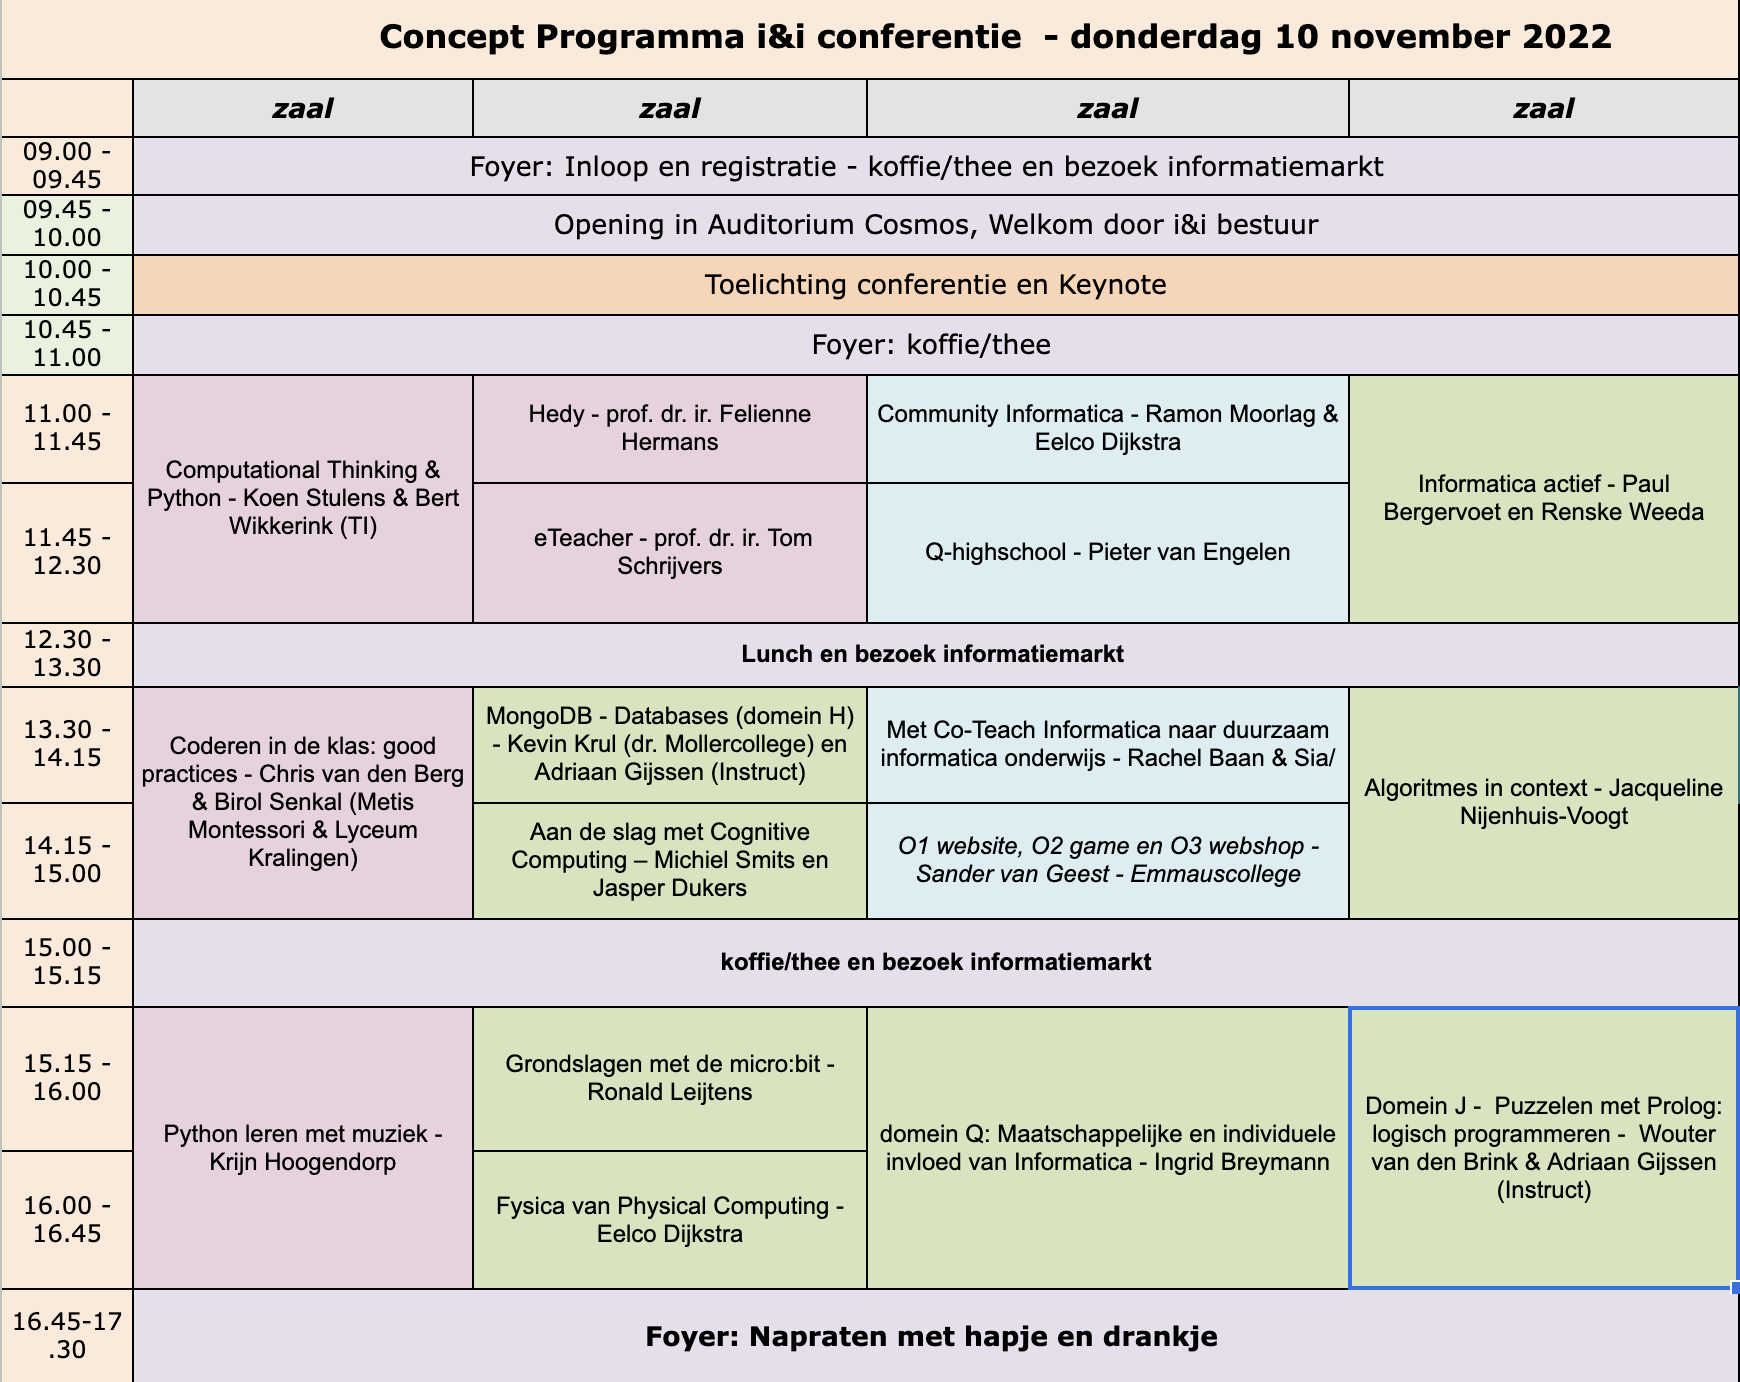
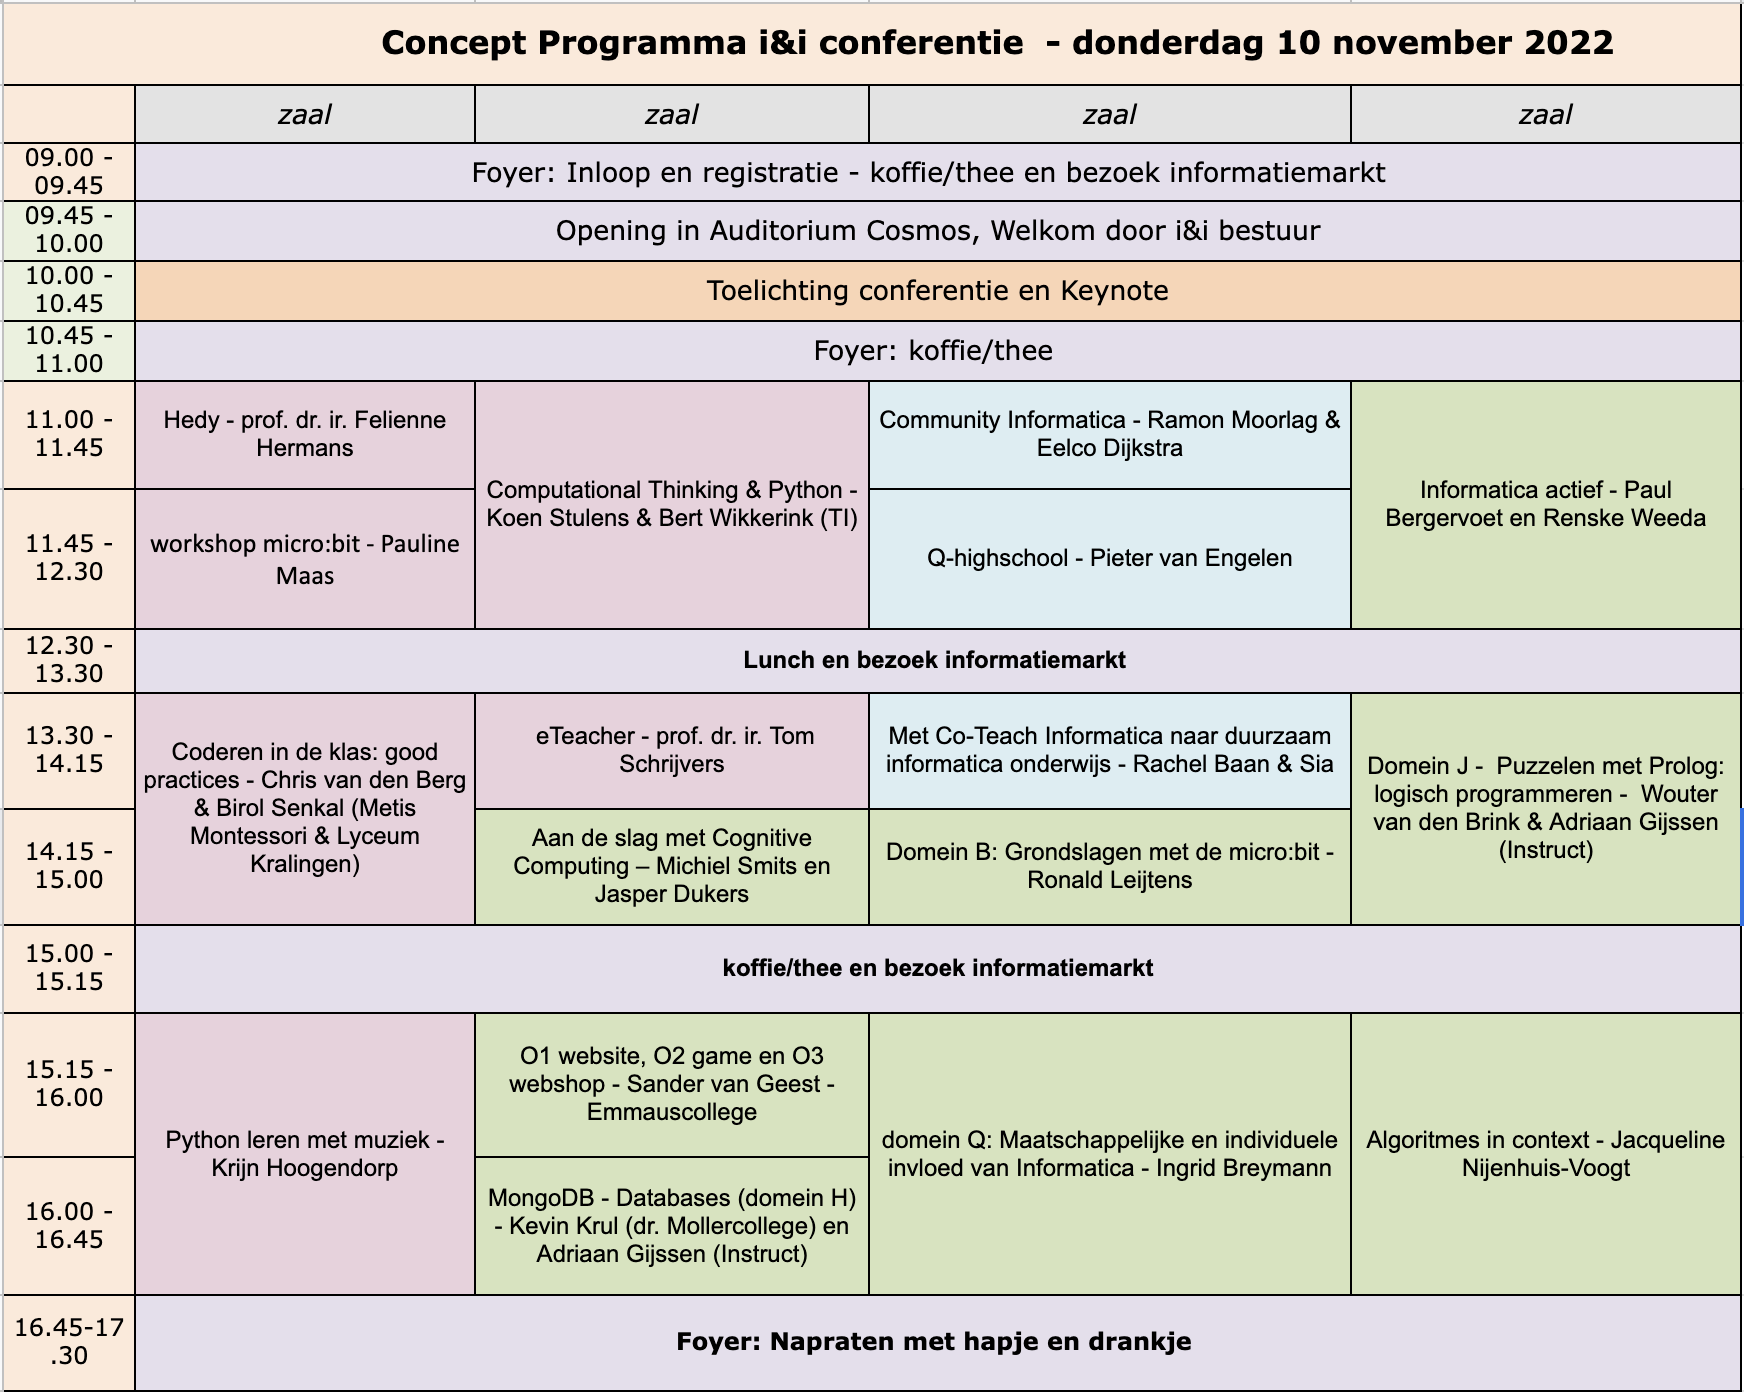
programma aangepast (Pauline)

diff --git a/_informatica/co-teach.md b/_informatica/co-teach.md
@@ -1,0 +1,34 @@
+---
+layout: informatica
+title: Co-Teach Informatica
+---
+ 
+*Informatica op school - ook als er (tijdelijk) geen informatica docent is*
+
+**Rachel Baan, Sia van Kesteren**
+
+Co-Teach Informatica is een programma waarmee VO-scholen het vak informatica kunnen 
+aanbieden door een combinatie van projectonderwijs door IT-professionals en een
+online leerlijn. Een oplossing voor scholen waar (tijdelijk) geen bevoegde informatica
+docent beschikbaar is. Terwijl er in het land wordt doorgewerkt aan meer bevoegde 
+leraren – kunnen we met Co-Teach informatica toch aan bovenbouw leerlingen het vak 
+informatica aanbieden.
+
+Wil je het vak informatica (her)introduceren op je school, dan biedt Co-Teach 
+Informatica de middelen en ondersteuning om dit mogelijk te maken.
+
+In deze workshop sessie
+
+* Krijg je inzicht in het Co-Teach Informatica programma.
+* Bespreken we het Co-Teach curriculum.
+* Ga je aan de slag op het online Leerplatform en krijg je een indruk hoe leerlingen de
+kerndomeinen leren tijdens de informatica les.
+* Laten we zien hoe onze gastdocenten het klaslokaal en de werkvloer verbinden. 
+Hoe de IT-professionals de Co-Teach Informatica leerlingen in aanraking te brengen met
+praktijkvoorbeelden uit de ‘echte wereld’.
+* Bespreken we kansen voor de continuïteit en verduurzaming van het informatica onderwijs
+m.b.v. het Co-Teach Informatica project.
+
+Sprekers:
+
+<img src="{{'/public/images/co-teach-rachel-sia.png' | relative_url}}" width="300">

diff --git a/index.md b/index.md
@@ -26,7 +26,9 @@ Alvast wat praktische gegevens:
     * Universiteit Utrecht
 * aanmelden via: [aanmeldformulier](https://www.smink-registratie.nl/ieni/){:target="_blank"}
 
-## Programma
+## Programma (concept)
+
+*wijzigingen voorbehouden*
 
 [<img src="{{'/assets/ieni-conferentie-2022-concept-221003.png' | relative_url}}" width="700">]({{'/assets/ieni-conferentie-2022-concept-221003.png' | relative_url}}){:target="_blank"}
 
